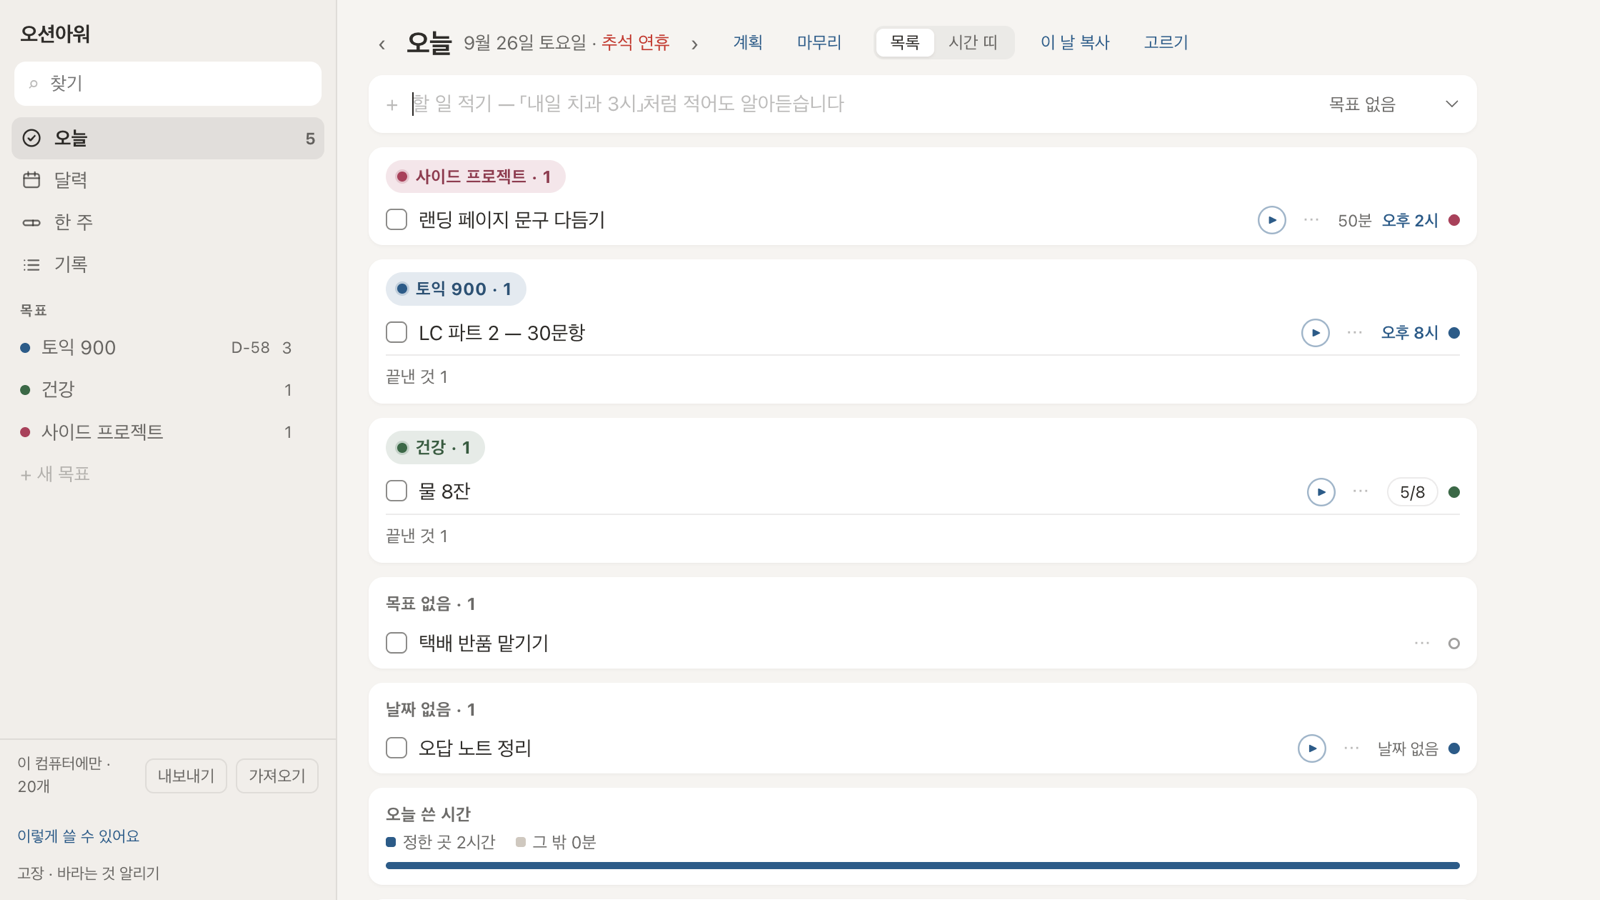
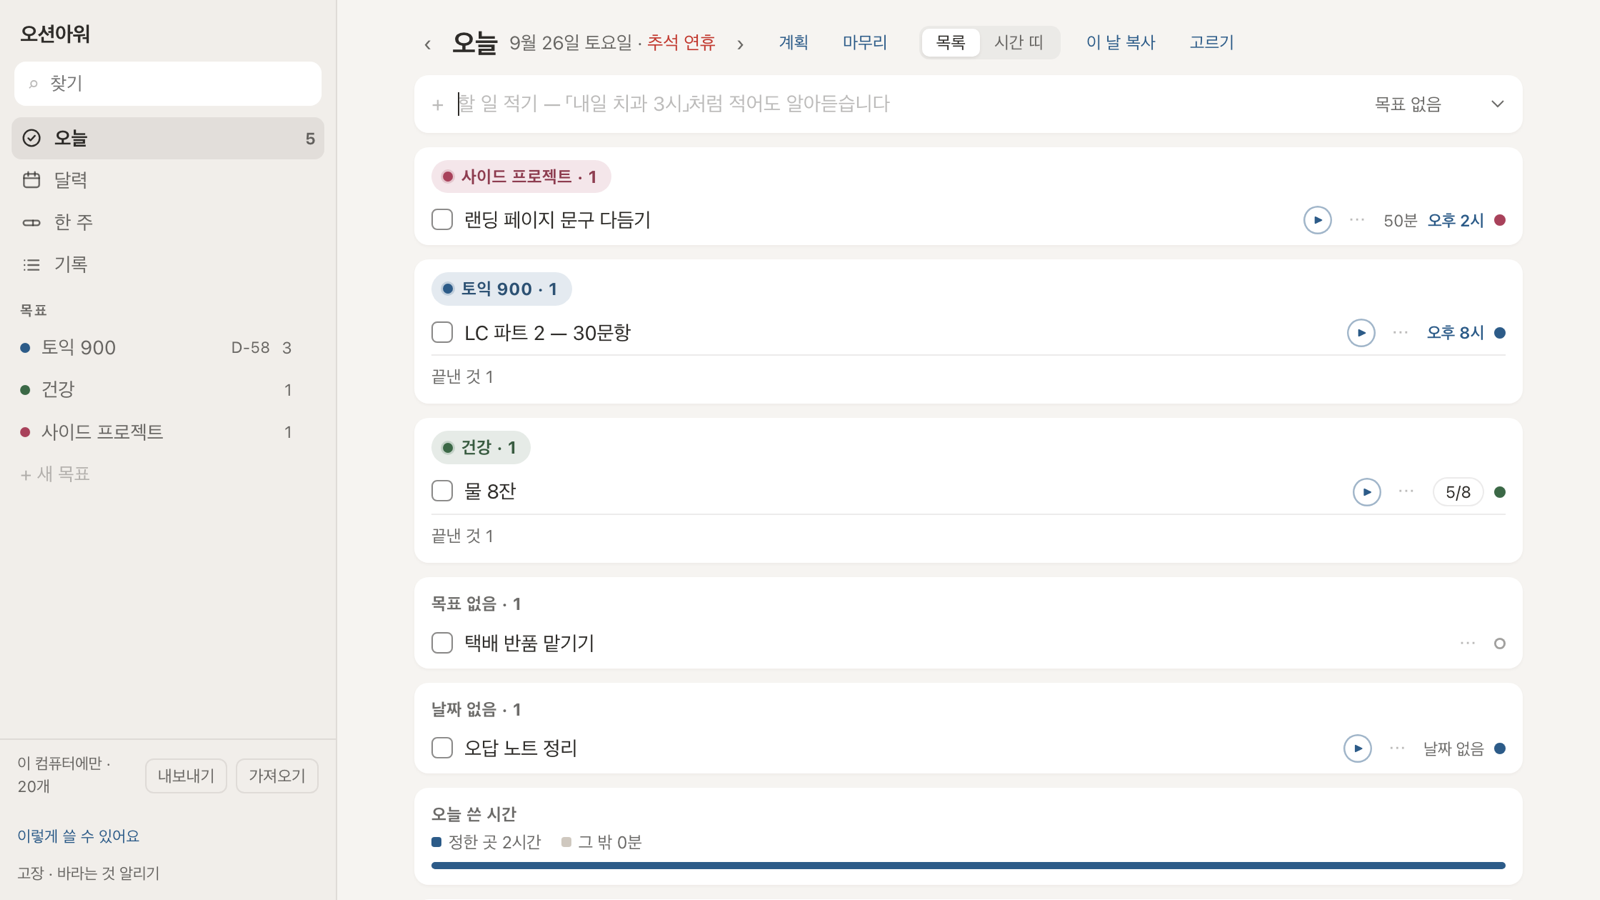
채점 2판 — 틀 치우기 · 보관 예고 · 넓은 화면 가운데

diff --git a/app/index.html b/app/index.html
@@ -226,7 +226,7 @@ main{flex:1;overflow:auto}
 .cardp .cimg{display:block;width:100%;max-width:360px;border-radius:8px;border:1px solid var(--line);margin:4px 0 10px}
 .cnm{display:flex;gap:6px;align-items:center;font-size:13px;color:var(--d70);margin:0 0 8px}
 .cardp .rnote{font-size:11px;color:var(--d70);padding:0 0 8px}
-.wrap{max-width:820px;padding:16px 22px 70px}
+.wrap{max-width:820px;padding:16px 22px 70px;margin:0 auto}   /* 넓은 화면에서 가운데 — 1440에서 오른쪽 400px이 비었다(09-26 채점 2판) */
 .daybar{display:flex;align-items:center;gap:8px;margin-bottom:9px;position:relative}
 .daybar h1{font-size:19px;margin:0;letter-spacing:-.025em}
 .daybar .wd{font-size:13px;color:var(--d70)}
@@ -391,6 +391,8 @@ li.row.tools-on .tools button,li.row.tools-on .tools .rep button{padding:4px 9px
 .carry{display:flex;align-items:center;gap:12px;background:var(--card);border-radius:var(--r);
   padding:7px 12px;margin-bottom:10px;font-size:13px;color:var(--d70);box-shadow:0 1px 2px rgba(40,38,35,.04)}
 .carry button{color:var(--c4);font-size:12.5px}
+.carry{flex-wrap:wrap}
+.carry .soon{order:9;flex-basis:100%;font-size:12px;margin-top:-4px}   /* 보관 예고는 둘째 줄 */
 .carry button:hover{text-decoration:underline}
 .gact{display:flex;gap:8px;margin-top:2px}
 .gact button{font-size:12.5px;color:var(--d70);border:1px solid var(--line);background:var(--card);
@@ -1586,7 +1588,8 @@ function goalPage(l){
       <button class="addrow" data-lact="addtodo">+ 할 일</button></div>
     <div class="box memo-box"><h2>메모</h2><textarea data-goalmemo="${esc(l.id)}" rows="2" placeholder="왜 이 목표인가 · 어떻게 할까 · 참고할 것 — 적는 대로 저장됩니다">${esc(l.note || '')}</textarea></div>
     <div class="gact">${l.done ? `<button data-lact="reopen">다시 열기</button>` : `<button data-lact="finish">목표 마치기</button>`}
-      <button data-lact="del">지우기</button></div>`;
+      <button data-lact="del" title="목표만 지웁니다 — 할 일은 「목표 없음」으로 남습니다">지우기</button>${(n => n
+        ? `<button data-lact="delall" title="끝낸 일은 기록으로 남깁니다">안 끝낸 할 일까지 지우기 · ${n}</button>` : '')(ts.filter(t => !t.done).length)}</div>`;
 }
 
 function timeLine(o){                          // 「정한 곳 · 그 밖」 — 막대는 날마다 같은 폭. 두 몫의 비율만 보인다 (% 숫자는 안 쓴다)
@@ -1817,7 +1820,9 @@ function drawBody(){
     if (copyFor === 'day:' + day) html += `<div class="box">${copyPanel('day:' + day, day)}</div>`;
     if (day === T){
       const p = DB.past();
-      if (p.length) html += `<div class="carry"><span>지난 일 ${p.length}</span>
+      const archOn = t => DB.shift(t.endDate || t.date, DB.ARCH + 1), soon = p.filter(t => archOn(t) <= DB.shift(T, 7)).sort((a, b) => archOn(a).localeCompare(archOn(b)));   // 이레 안에 보관함으로 갈 것
+      if (p.length) html += `<div class="carry"><span>지난 일 ${p.length}</span>${soon.length
+          ? `<span class="soon" title="${DB.ARCH}일 넘게 밀린 일은 보관함으로 옮깁니다 — 지우지 않습니다">${soon.length}개는 ${dOnly(archOn(soon[0]))}부터 보관함으로</span>` : ''}
           <button data-carry="all">모두 오늘로</button>
           <button data-oneby title="밀린 일을 한 장씩 보며 정리합니다">하나씩</button>
           <button data-carry="show">${showPast ? '접기' : '보기'}</button></div>`
@@ -1929,7 +1934,7 @@ function drawPast(el){
   el.classList.remove('hide');
   el.innerHTML = `<div class="card"><div class="top"><span>지난 일 ${one.i + 1} / ${one.ids.length}</span><button data-one="stop">그만</button></div>
     <div class="big">${esc(t.text)}</div>
-    <div class="sub">${l ? `<span class="gdot" style="background:${l.color}"></span> ${esc(l.name)} · ` : ''}${dOnly(t.date)}에 있던 일 · ${late}일 밀림${t.movedCount ? ` · ${t.movedCount}번 옮김` : ''}</div>
+    <div class="sub">${l ? `<span class="gdot" style="background:${l.color}"></span> ${esc(l.name)} · ` : ''}${dOnly(t.date)}에 있던 일 · ${late}일 밀림${t.movedCount ? ` · ${t.movedCount}번 옮김` : ''} · ${dOnly(DB.shift(t.endDate || t.date, DB.ARCH + 1))}에 보관함으로</div>
     <div class="acts"><button class="main" data-one="today">오늘로</button><button data-one="undated">날짜 빼기</button>
       <button data-one="done">끝냈음</button><button class="del" data-one="del">지우기</button></div>
     <div class="foot"><button data-one="undo" ${one.log.length ? '' : 'disabled'}>방금 것 되돌리기</button><button data-one="skip">건너뛰기</button></div></div>`;
@@ -2251,6 +2256,10 @@ document.addEventListener('click', e => {
     if (a === 'reopen')   DB.reopenList(l.id);
     if (a === 'del'){ const ids = DB.removeList(l.id); open = null;
       toast(`지웠습니다 · 「${l.name}」`, () => { DB.restoreList(l.id, ids); open = l.id; }); }
+    if (a === 'delall'){                        // 틀을 써 보고 치울 때 — 예시 지우기가 처음 쓰는 사람의 1번 마찰이었다(조사.md 6장). 끝낸 일은 기록이라 남긴다
+      const undone = DB.todos().filter(t => t.listId === l.id && !t.done).map(t => t.id);
+      undone.forEach(id => DB.removeTodo(id)); const ids = DB.removeList(l.id); open = null;
+      toast(`지웠습니다 · 「${l.name}」 — 안 끝낸 할 일 ${undone.length}개도`, () => { undone.forEach(id => DB.restoreTodo(id)); DB.restoreList(l.id, ids); open = l.id; }); }
     return render(); }
 
   const sd = e.target.closest('[data-sdo]');
